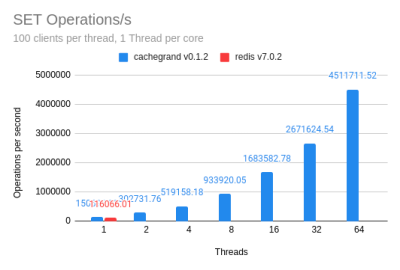
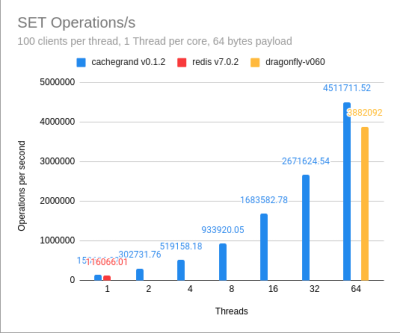
Update benchmark charts and comparisons (#224)
Update benchmark charts and comparisons

diff --git a/README.md b/README.md
@@ -23,6 +23,12 @@ cachegrand is able to scale linearly if enough cpu power is left to the operatin
 ![GET Operations/s](https://raw.githubusercontent.com/danielealbano/cachegrand/main/docs/benchmarks/cachegrand-amd-epyc-7502p-get-ops.png)
 ![SET Operations/s](https://raw.githubusercontent.com/danielealbano/cachegrand/main/docs/benchmarks/cachegrand-amd-epyc-7502p-set-ops.png)
 
+Below a comparison done using batching (pipelines) with 256 commands and payloads of 64 bytes, because of the extra load
+generated by the batching the amount of clients has been reduced to 10 per thread for a total of 640 clients.
+
+![GET Operations/s](https://raw.githubusercontent.com/danielealbano/cachegrand/main/docs/benchmarks/cachegrand-amd-epyc-7502p-get-pipeline-ops.png)
+![SET Operations/s](https://raw.githubusercontent.com/danielealbano/cachegrand/main/docs/benchmarks/cachegrand-amd-epyc-7502p-set-pipeline-ops.png)
+
 Latencies are great as well, especially taking into account that with 6400 clients over 64 cores the operating system
 doesn't really have too much room to handle the network traffic.
 
